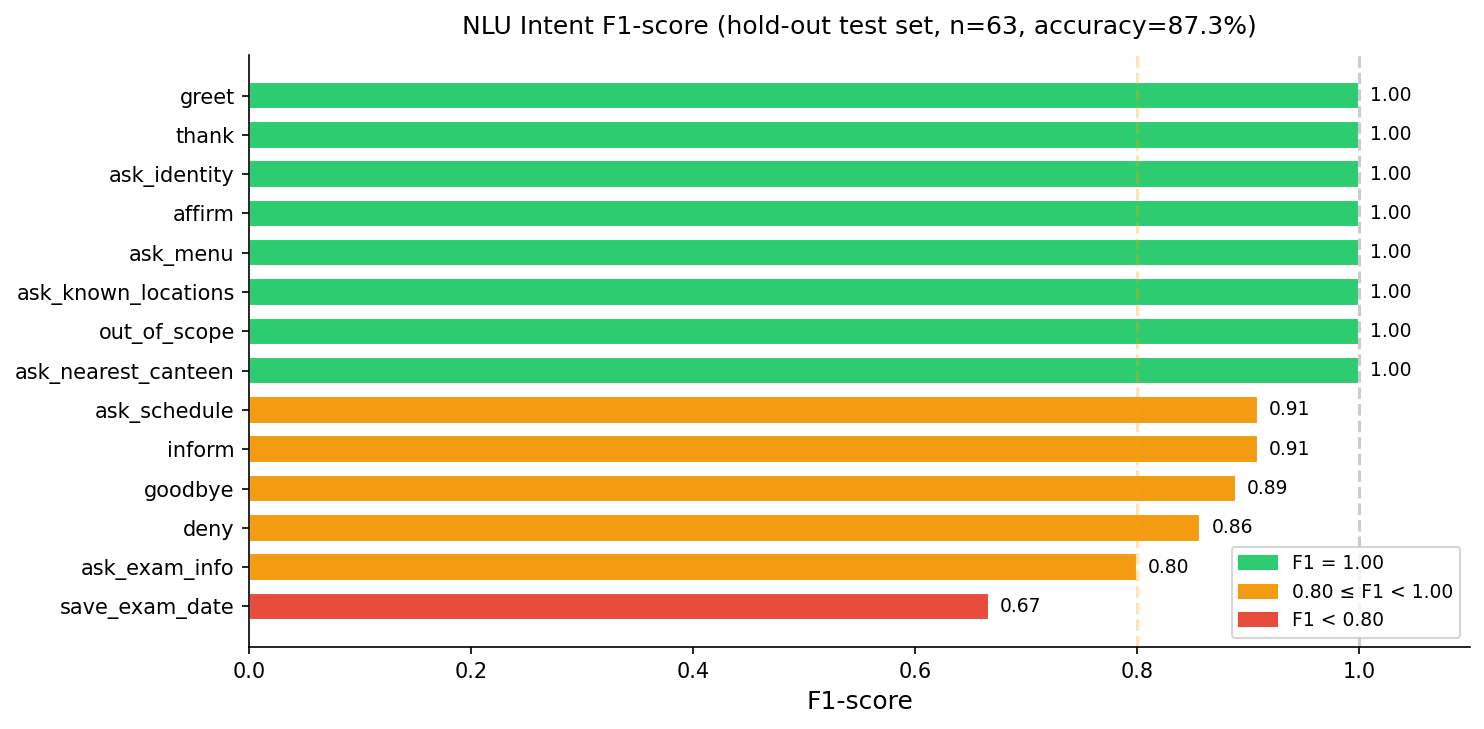
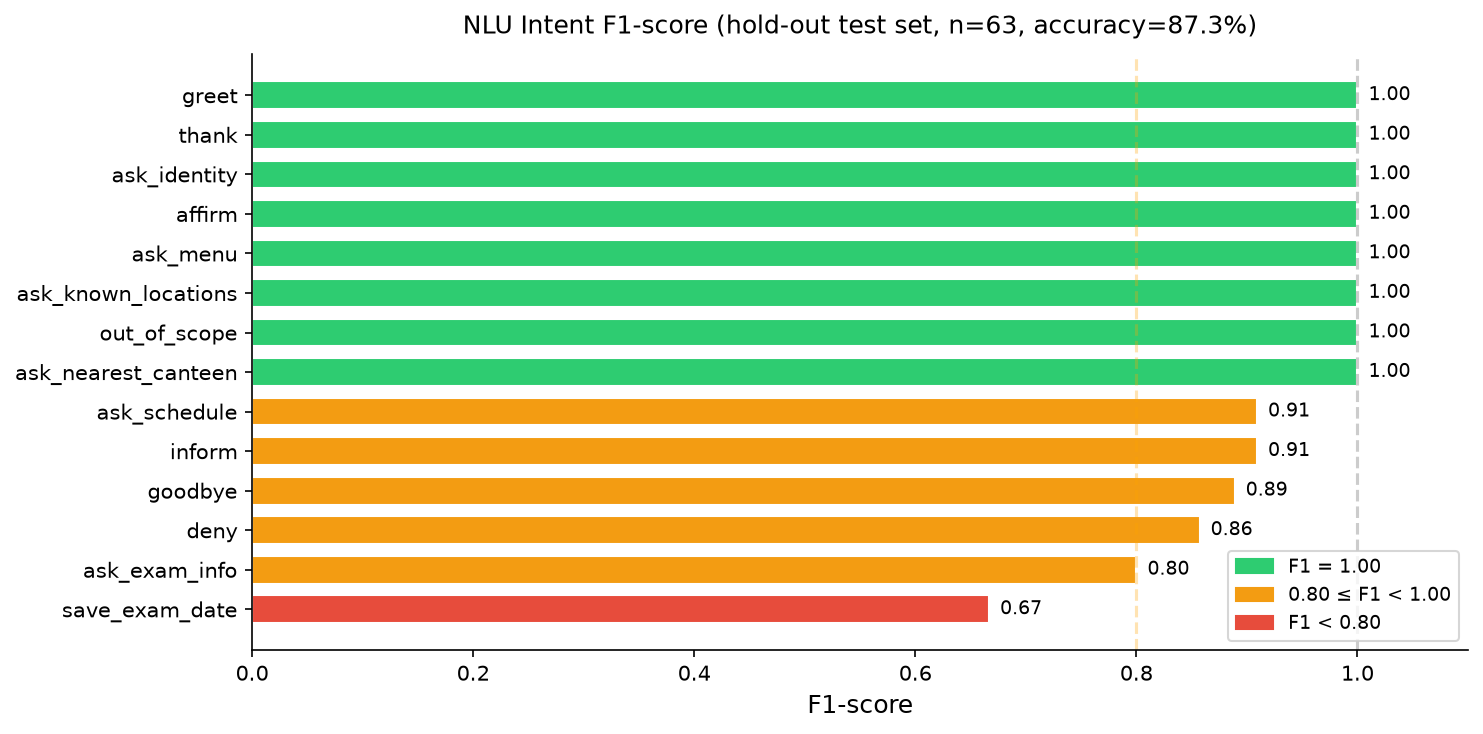
final commit ig

diff --git a/actions/actions.py b/actions/actions.py
@@ -212,6 +212,82 @@ class ActionPreSchedule(Action):
 
 
 # ---------------------------------------------------------------------------
+# Action: action_pre_canteen
+# ---------------------------------------------------------------------------
+
+class ActionPreCanteen(Action):
+    def name(self) -> Text:
+        return "action_pre_canteen"
+
+    def run(self, dispatcher, tracker, domain):
+        confidence = get_confidence(tracker)
+        if confidence < ALPHA:
+            dispatcher.utter_message(response="utter_reject")
+            return [SlotSet("original_confidence", None)]
+        if confidence < BETA:
+            dispatcher.utter_message(response="utter_explicit_confirm_canteen")
+            return [SlotSet("pending_intent", "ask_nearest_canteen"), SlotSet("original_confidence", confidence)]
+        return [ActiveLoop("canteen_form"), SlotSet("original_confidence", confidence)]
+
+
+# ---------------------------------------------------------------------------
+# Action: action_pre_menu
+# ---------------------------------------------------------------------------
+
+class ActionPreMenu(Action):
+    def name(self) -> Text:
+        return "action_pre_menu"
+
+    def run(self, dispatcher, tracker, domain):
+        confidence = get_confidence(tracker)
+        if confidence < ALPHA:
+            dispatcher.utter_message(response="utter_reject")
+            return [SlotSet("original_confidence", None)]
+        if confidence < BETA:
+            dispatcher.utter_message(response="utter_explicit_confirm_menu")
+            return [SlotSet("pending_intent", "ask_menu"), SlotSet("original_confidence", confidence)]
+        return [ActiveLoop("menu_form"), SlotSet("original_confidence", confidence)]
+
+
+# ---------------------------------------------------------------------------
+# Action: action_pre_exam
+# ---------------------------------------------------------------------------
+
+class ActionPreExam(Action):
+    def name(self) -> Text:
+        return "action_pre_exam"
+
+    def run(self, dispatcher, tracker, domain):
+        confidence = get_confidence(tracker)
+        if confidence < ALPHA:
+            dispatcher.utter_message(response="utter_reject")
+            return [SlotSet("original_confidence", None)]
+        if confidence < BETA:
+            dispatcher.utter_message(response="utter_explicit_confirm_exam")
+            return [SlotSet("pending_intent", "ask_exam_info"), SlotSet("original_confidence", confidence)]
+        return [ActiveLoop("exam_query_form"), SlotSet("original_confidence", confidence)]
+
+
+# ---------------------------------------------------------------------------
+# Action: action_pre_save_exam
+# ---------------------------------------------------------------------------
+
+class ActionPreSaveExam(Action):
+    def name(self) -> Text:
+        return "action_pre_save_exam"
+
+    def run(self, dispatcher, tracker, domain):
+        confidence = get_confidence(tracker)
+        if confidence < ALPHA:
+            dispatcher.utter_message(response="utter_reject")
+            return [SlotSet("original_confidence", None)]
+        if confidence < BETA:
+            dispatcher.utter_message(response="utter_explicit_confirm_exam")
+            return [SlotSet("pending_intent", "save_exam_date"), SlotSet("original_confidence", confidence)]
+        return [ActiveLoop("save_exam_form"), SlotSet("original_confidence", confidence)]
+
+
+# ---------------------------------------------------------------------------
 # Action: action_get_schedule
 # ---------------------------------------------------------------------------
 